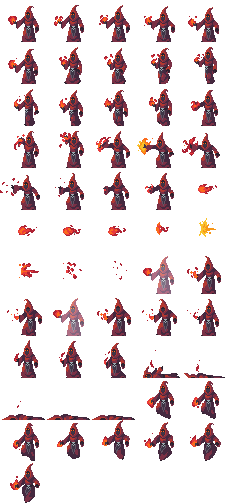
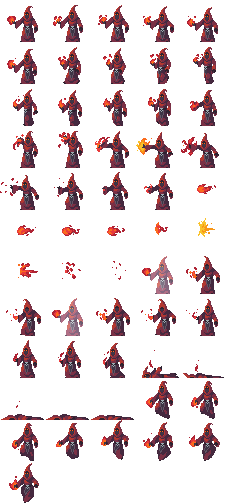
Projectiles now face the correct direciton

diff --git a/FightingGame/Animation/Animation.cs b/FightingGame/Animation/Animation.cs
@@ -74,27 +74,6 @@ namespace FightingGame
         {
             SpriteEffects spriteEffect = isMovingLeft ? SpriteEffects.FlipHorizontally : SpriteEffects.None;
 
-            //Vector2 adjustedPosition;
-            //float offsetX = (PreviousFrame.SourceRectangle.Width - PreviousFrame.CharacterHitbox.Width) / 2;
-            //float offsetY = (PreviousFrame.SourceRectangle.Height - PreviousFrame.CharacterHitbox.Height) / 2;
-
-            //if (isMovingLeft)
-            //{
-            //    adjustedPosition = position - new Vector2(offsetX, offsetY);
-            //}
-            //else
-            //{
-            //    adjustedPosition = position + new Vector2(offsetX, -offsetY);
-            //}
-            //if(PreviousFrame.SourceRectangle != PreviousFrame.CharacterHitbox)
-            //{
-            //    origin = new Vector2(PreviousFrame.CharacterHitbox.Width / 2, PreviousFrame.CharacterHitbox.Height / 2);
-            //}
-            //else
-            //{
-            //    origin = PreviousFrame.Origin;
-            //}
-
             Vector2 origin = PreviousFrame.Origin;
 
             int x = PreviousFrame.CharacterHitbox.X - PreviousFrame.SourceRectangle.X;
@@ -109,5 +88,24 @@ namespace FightingGame
 
             Globals.SpriteBatch.Draw(Texture, position, PreviousFrame.SourceRectangle, color, 0, origin, scale, spriteEffect, 1);
         }
+        public void Draw(Vector2 position, bool isMovingLeft, float scale, float rotationAngle, Color color)
+        {
+            SpriteEffects spriteEffect = isMovingLeft ? SpriteEffects.FlipHorizontally : SpriteEffects.None;
+
+            Vector2 origin = PreviousFrame.Origin;
+
+            int x = PreviousFrame.CharacterHitbox.X - PreviousFrame.SourceRectangle.X;
+            int y = PreviousFrame.CharacterHitbox.Y - PreviousFrame.SourceRectangle.Y;
+            Vector2 defaultOrigin = new Vector2(x + PreviousFrame.CharacterHitbox.Width / 2, y + PreviousFrame.CharacterHitbox.Height / 2);
+            Vector2 flippedOrigin = new Vector2(PreviousFrame.SourceRectangle.Width - (x + PreviousFrame.CharacterHitbox.Width / 2), y + PreviousFrame.CharacterHitbox.Height / 2);
+
+            if (PreviousFrame.CharacterHitbox != PreviousFrame.SourceRectangle)
+            {
+                origin = isMovingLeft ? flippedOrigin : defaultOrigin;
+            }
+
+            Globals.SpriteBatch.Draw(Texture, position, PreviousFrame.SourceRectangle, color, rotationAngle, origin, scale, spriteEffect, 1);
+        }
+
     }
 }

diff --git a/FightingGame/Characters/Enemy.cs b/FightingGame/Characters/Enemy.cs
@@ -17,8 +17,9 @@ namespace FightingGame
         public Color HealthBarColor = Color.Green;
         public bool IsBoss;
         private Vector2 direction;
+        public bool leftFacingSprite;
 
-        public Enemy(EntityName name, bool isBoss, float health, float speed, float scale) : base(name)
+        public Enemy(EntityName name, bool isBoss, float health, float speed, float scale, bool leftFacingSprite) : base(name)
         {
             Rectangle characterRectangle = ContentManager.Instance.EntityTextures[name];
             EntityScale = scale;
@@ -29,6 +30,7 @@ namespace FightingGame
             TotalHealth = health;
             RemainingHealth = TotalHealth;
             IsBoss = isBoss;
+            this.leftFacingSprite = leftFacingSprite;
         }
         public Enemy(Enemy enemy) : base(enemy.Name)
         {
@@ -39,6 +41,7 @@ namespace FightingGame
             Speed = enemy.Speed;
             TotalHealth = enemy.TotalHealth;
             RemainingHealth = TotalHealth;
+            this.leftFacingSprite = enemy.leftFacingSprite;
         }
         public void Update(Character character)
         {
@@ -64,8 +67,15 @@ namespace FightingGame
             {
                 HasBeenHit = false;
             }
-            
-            IsFacingLeft = direction.X < 0;
+
+            if (leftFacingSprite)
+            {
+                IsFacingLeft = direction.X > 0;
+            }
+            else
+            {
+                IsFacingLeft = direction.X < 0;
+            }
             base.Update(GetWantedAnimation(character), direction);
             //if (CurrentAction.AnimationType == AnimationType.Death && Animator.CurrentAnimation.IsAnimationDone)
             //{
@@ -112,9 +122,12 @@ namespace FightingGame
             {
                 foreach (var attack in Attacks.Values)
                 {
-                    if (CalculateDistance(character.Position, Position) <= attack.AttackRange && Math.Abs(character.Position.Y - Position.Y) <= 30)
+                    if (CalculateDistance(character.Position, Position) <= attack.AttackRange && CooldownManager.AnimationCooldown[attack.AnimationType] == 0)
                     {
-                        return attack.AnimationType;
+                        if(attack.IsRanged || Math.Abs(character.Position.Y - Position.Y) <= 30)
+                        {
+                            return attack.AnimationType;
+                        }
                     }
                 }
             }

diff --git a/FightingGame/Managers/EnemyManager.cs b/FightingGame/Managers/EnemyManager.cs
@@ -26,9 +26,9 @@ namespace FightingGame
         private int currentWave = 0;
 
         #region Enemy Presets
-        Enemy SkeletonPreset = new Enemy(EntityName.Skeleton, false, 30, 0.5f, 1.5f);
-        Enemy GhostWarriorPreset = new Enemy(EntityName.GhostWarrior, true, 100, 0.6f, 1.7f);
-        Enemy RangedCultistPreset = new Enemy(EntityName.RangedCultist, false, 30, 0.5f, 1f);
+        Enemy SkeletonPreset = new Enemy(EntityName.Skeleton, false, 30, 0.5f, 1.5f, false);
+        Enemy GhostWarriorPreset = new Enemy(EntityName.GhostWarrior, true, 100, 0.6f, 1.7f, false);
+        Enemy RangedCultistPreset = new Enemy(EntityName.RangedCultist, false, 30, 0.5f, 1f, true);
         //Enemy GhostWarriorPreset = new Enemy(EntityName.GhostWarrior, true, ContentManager.Instance.EntitySpriteSheets[EntityName.GhostWarrior], 150, 0.8f, 1.5f, ContentManager.Instance.EntityAnimationBehaviours[EntityName.GhostWarrior]);
         //Enemy GhostWarrior2Preset = new Enemy(EntityName.GhostWarrior2, true, ContentManager.Instance.EntitySpriteSheets[EntityName.GhostWarrior2], 150, 1f, 1.5f, ContentManager.Instance.EntityAnimationBehaviours[EntityName.GhostWarrior2]);
         #endregion

diff --git a/FightingGame/Actions/AnimationBehaviours/EnemyRangedAttack.cs b/FightingGame/Actions/AnimationBehaviours/EnemyRangedAttack.cs
@@ -22,17 +22,21 @@ namespace FightingGame
             this.projectileTriggerFrame = projectileTriggerFrame;
             this.projectileSpeed = projectileSpeed;
             animation = projectileAnimation;
+            IsRanged = true;
         }
         public override void OnStateEnter(Animator animator)
         {
             projectile = new Projectile(Damage, ContentManager.Instance.EntitySpriteSheets[animator.Entity.Name], animation.frameTime, animation.AnimationFrames);
+            if (animator.Entity.CooldownManager.AnimationCooldown.ContainsKey(AnimationType))
+            {
+                animator.Entity.CooldownManager.AnimationCooldown[AnimationType] = Cooldown;
+            }
             return;
         }
         public override void OnStateUpdate(Animator animator)
         {
             if(animator.CurrentAnimation.PreviousFrame.SourceRectangle == projectileTriggerFrame && !projectile.IsActive)
             {
-
                 Vector2 relativePosition = Vector2.Zero;
                 if(animator.Entity.IsFacingLeft)
                 {

diff --git a/FightingGame/Managers/ContentManager.cs b/FightingGame/Managers/ContentManager.cs
@@ -604,7 +604,7 @@ namespace FightingGame
             Dictionary<AnimationType, AnimationBehaviour> RangedCultistBehaviour = new Dictionary<AnimationType, AnimationBehaviour>()
             {
                 [AnimationType.Run] = new Run(AnimationType.Run),
-                [AnimationType.BasicAttack] = new EnemyRangedAttack(AnimationType.BasicAttack, new Animation(rangedCultistSprite, 0.1f, CultistFireball), new Vector2(187, 145), new Rectangle(182, 133, 38, 35), 2, 5, 150, 0, false),
+                [AnimationType.BasicAttack] = new EnemyRangedAttack(AnimationType.BasicAttack, new Animation(rangedCultistSprite, 0.1f, CultistFireball), new Vector2(187, 145), new Rectangle(182, 133, 38, 35), 2, 5, 400, 5, false),
                 [AnimationType.Stand] = new Stand(AnimationType.Stand),
             };
 

diff --git a/FightingGame/Projectiles/Projectile.cs b/FightingGame/Projectiles/Projectile.cs
@@ -50,7 +50,8 @@ namespace FightingGame
         public void Draw()
         {
             movingLeft = Direction.X < 0;
-            Animation.Draw(Position, movingLeft, 1f, Color.White);
+            float rotationAngle = (float)Math.Atan2(Direction.Y, Direction.X);
+            Animation.Draw(Position, true, 1f, rotationAngle, Color.White);
         }
     }
 }

diff --git a/FightingGame/Actions/AttackBehaviour.cs b/FightingGame/Actions/AttackBehaviour.cs
@@ -12,6 +12,7 @@ namespace FightingGame
         public int AttackRange;
         public int Cooldown;
         protected bool canMove;
+        public bool IsRanged = false;
         public AttackBehaviour(AnimationType animationType, int damage, int attackRange, int cooldown, bool canMove) : base(animationType)
         {
             Damage = damage;

diff --git a/FightingGame/Projectiles/ProjectileManager.cs b/FightingGame/Projectiles/ProjectileManager.cs
@@ -9,6 +9,7 @@ namespace FightingGame
     public class ProjectileManager
     {
         private List<Projectile> Projectiles;
+        public List<Projectile> ReserveProjectiles;
 
         public ProjectileManager()
         {
